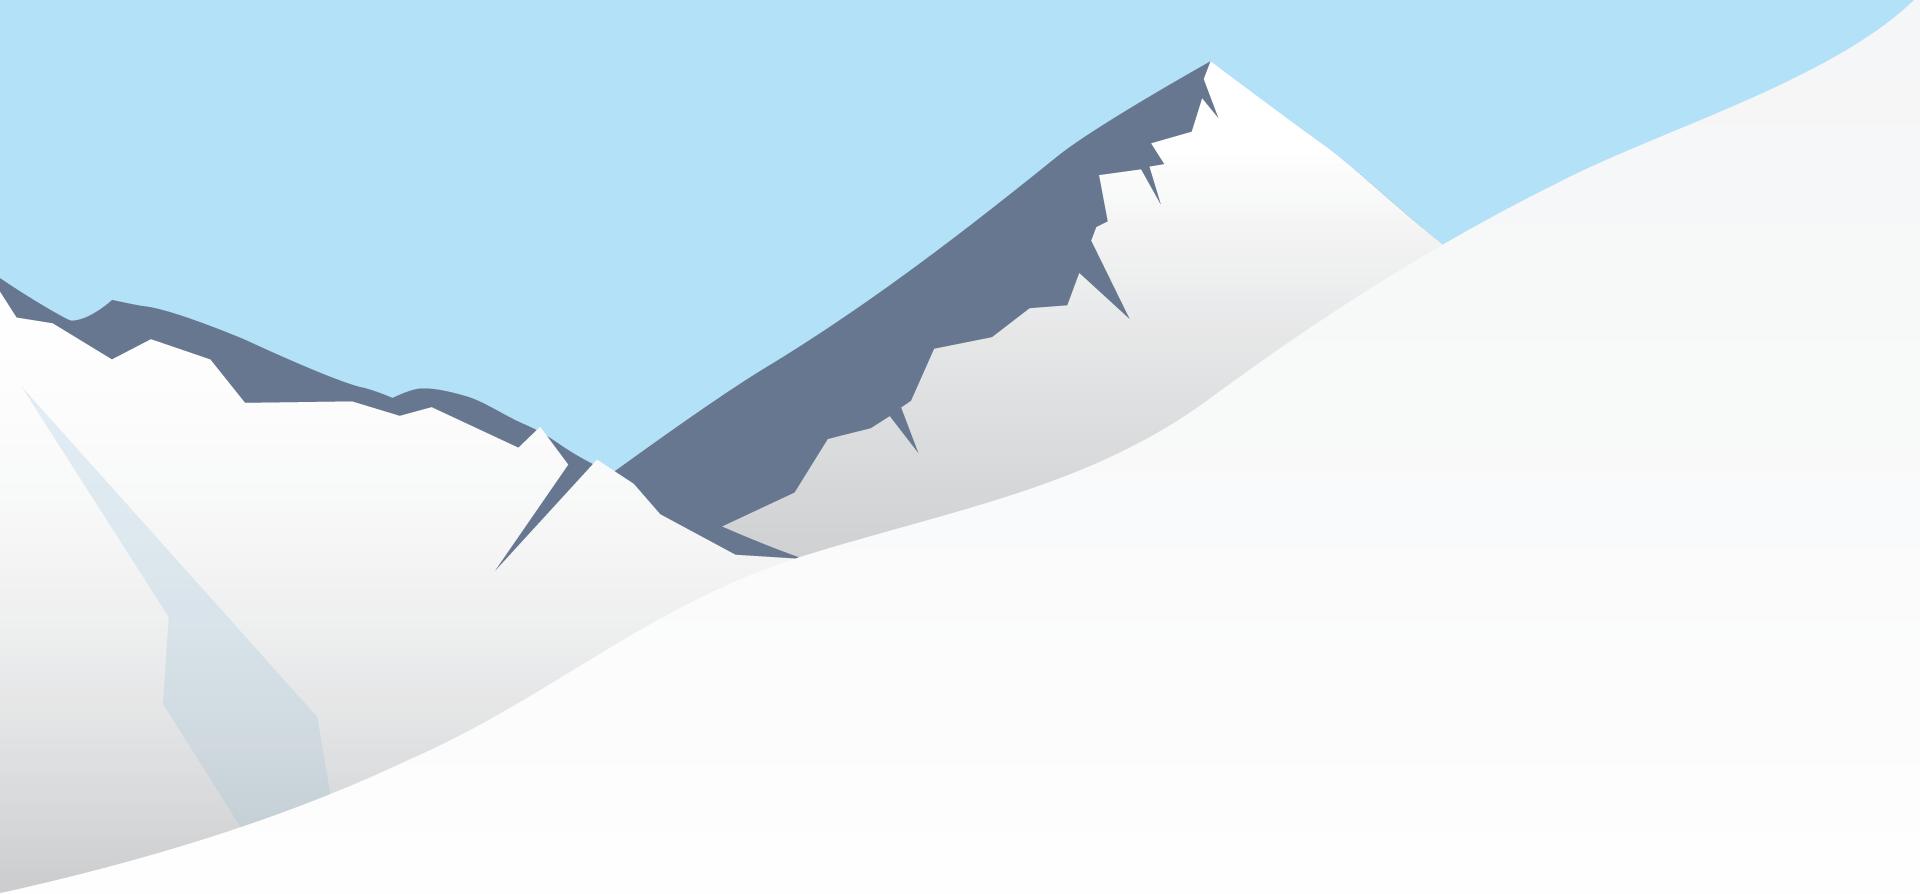
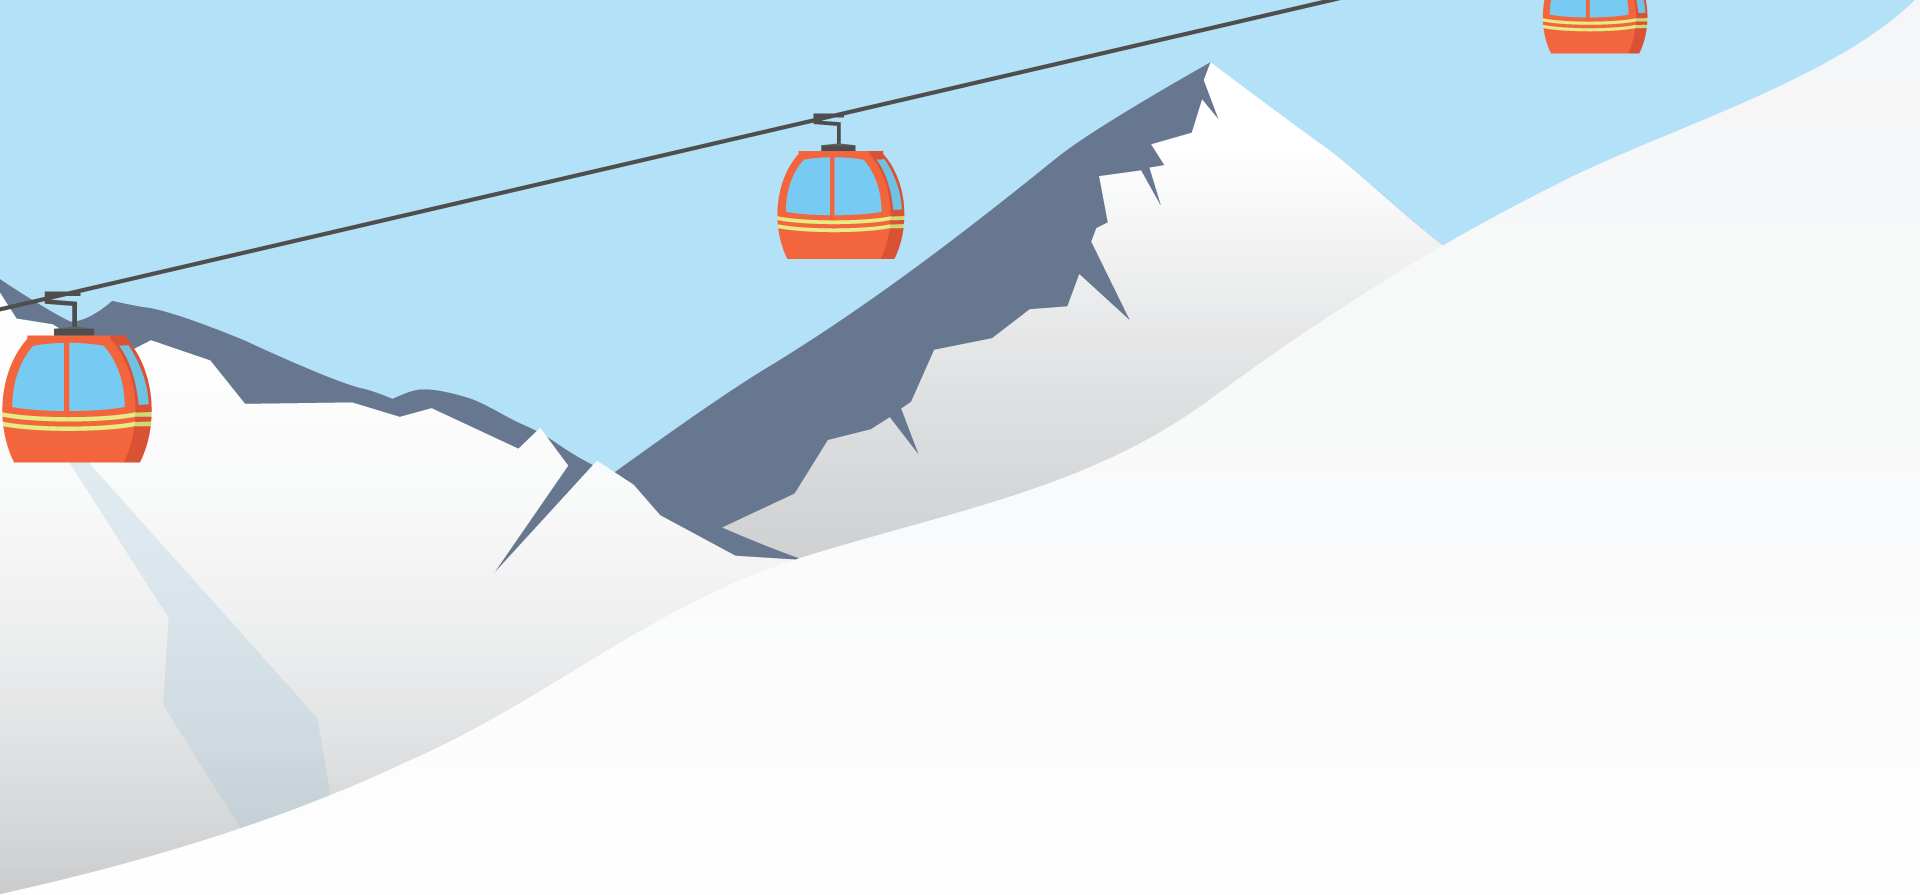
in progress

diff --git a/new.html b/new.html
@@ -97,53 +97,90 @@ e.async=true;var t=document.getElementsByTagName("script")[0];t.parentNode.inser
 .link-row {
 	background: #fefefe;
 }
-.grow-text a {
-	color: #666;
+.downed {
+	position: relative;
+	top: 85px;
+	float: right;
+	right: 10px;
 }
-.grow-text a:hover {
-	transition: all .5s ease-in-out;
-	text-decoration: none;
+.bubble {
+	position: relative;
+	min-width: 270px;
+	padding: 0px;
+	background: #D95236;
+	-webkit-border-radius: 0px;
+	-moz-border-radius: 0px;
+	border-radius: 0px;
+	color: #fff;
+	padding: 15px;
+	text-align: center;
+	margin-bottom: 25px;
+	font-size: 18px;
+	font-weight: 400;
 }
-.grow-text a:active, .grow-text a:visited, .grow-text a:hover {
-	text-decoration: none;
-}
-.grow-text {
-	transition: all .5s ease-in-out;
-}
-.grow-text:hover {
-	transform: scale(1.02);
+
+.bubble::after {
+	content: '';
+	position: absolute;
+	border-style: solid;
+	border-width: 16px 12px 0;
+	border-color: #D95236 transparent;
+	display: block;
+	width: 0;
+	z-index: 1;
+	bottom: -16px;
+	left: 160px;
 }
 	
+	
+	
+	
+	
+	
+	
+	
+	
+	
+	
+	
+	
+	
+	
 
-	.gondolas {
-  animation: g-one linear 4s;
-  animation-iteration-count: infinite;
-  transform-origin: 50% 50%;
-  -webkit-animation: g-one linear 4s;
-  -webkit-animation-iteration-count: infinite;
-  -webkit-transform-origin: 50% 50%;
-		
+.grow-text a:active, .grow-text a:visited, .grow-text a:hover, .grow-text a:focus {
+	transition: all .3s ease-in-out;
+	-webkit-transition: all .3s ease-in-out;
 }
-
-@keyframes g-one{
-  0% {
-    transform:  translate(1020px,0px)  scaleX(0.10) scaleY(0.10) ;
-  }
-  100% {
-    transform:  translate(-200px,475px)  scaleX(1.00) scaleY(1.00) ;
-  }
+.grow-text {
+	transition: all .3s ease-in-out;
+	-webkit-transition: all .3s ease-in-out;
 }
-
-@-webkit-keyframes g-one {
-  0% {
-    -webkit-transform:  translate(1020px,0px)  scaleX(0.10) scaleY(0.10) ;
-  }
-  100% {
-    -webkit-transform:  translate(-200px,475px)  scaleX(1.00) scaleY(1.00) ;
-  }
+.grow-text:hover, .grow-text:focus {
+	transform: scale(1.1);
+	text-decoration: none;
 }
-
-
+.gondolas {
+	animation: g-one linear 14s;
+	animation-iteration-count: infinite;
+	-webkit-animation: g-one linear 14s;
+	-webkit-animation-iteration-count: infinite;
+}
+ @keyframes g-one {
+ 0% {
+ transform:  translate(1020px, 200px) scaleX(0.20) scaleY(0.20);
+}
+ 100% {
+ transform:  translate(-200px, 1275px) scaleX(1.00) scaleY(1.00);
+}
+}
+ @-webkit-keyframes g-one {
+ 0% {
+ -webkit-transform:  translate(1020px, 200px) scaleX(0.20) scaleY(0.20);
+}
+ 100% {
+ -webkit-transform:  translate(-200px, 1275px) scaleX(1.00) scaleY(1.00);
+}
+}
 
 @media (min-width: 992px) {
 .amsterdam {
@@ -333,12 +370,17 @@ height="0" width="0" style="display:none;visibility:hidden"></iframe>
   </div>
   <!-- InstanceBeginEditable name="Content" -->
   <div class="background-wrapper row">
+    <div class="downed text-right">
+      <div class="bubble">I'm ready for <a class="white text-underline" href="camp-dcl/">Summer Camp</a>.</div>
+      <img src="downed-skier.png" alt="Downed Skier"></div>
     <div class="gondolas"><img src="gondola.png" alt="Gondola"></div>
   </div>
   <div class="link-row row">
     <div class="container text-center">
       <div>
-        <div>content goes here</div>
+        <div class="col-md-4 padding-left-30 padding-right-30"><a class="grow-text" href="#"><div class="bubble grow-text">Audiobooks for<br>the Drive</div></a></div>
+        <div class="col-md-4 padding-left-30 padding-right-30"><div class="bubble">Gear to<br>Go!</div></div>
+        <div class="col-md-4 padding-left-30 padding-right-30"><div class="bubble">Spring Author Event:<br>Gretchen Rubin!</div></div>
       </div>
     </div>
   </div>
